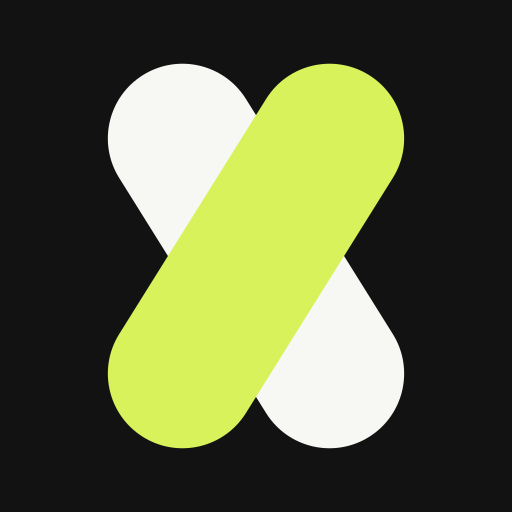
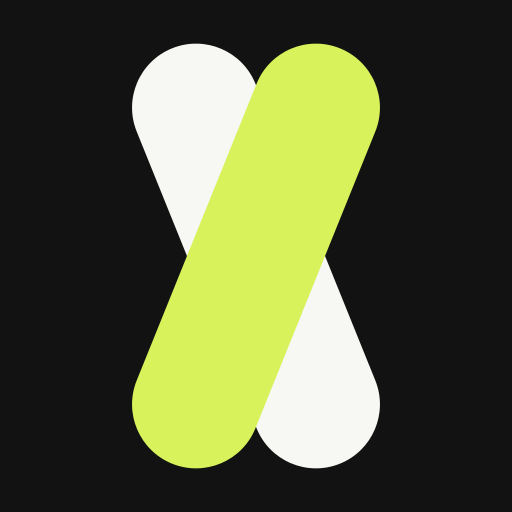
Dial the mark back toward the original proportions, size up the wordmark
Rick's read on the 32-degree version: too much X, lines too fat. Brought
the crossing angle to 22 degrees (was 18 broken / 32 overcorrected) and bars
back to 12px (was 13 broken / 14 overcorrected) - keeps the symmetry fix,
closer to the original spirit. Also sized up the homepage header lockup
(icon 28px to 40px, wordmark 15px to 20px, tagline 10.5px to 13px) per
request.

diff --git a/app/app/routes/home.tsx b/app/app/routes/home.tsx
@@ -134,36 +134,36 @@ export default function Home() {
       <link rel="stylesheet" href="/about/fonts/fonts.css" />
       {/* Header */}
       <header className="absolute top-0 left-0 right-0 z-50 px-6 py-6 flex items-center justify-between max-w-7xl mx-auto">
-        <h1 className="flex items-center gap-2.5">
-          <svg viewBox="0 0 48 48" fill="none" className="w-7 h-7 shrink-0">
+        <h1 className="flex items-center gap-3.5">
+          <svg viewBox="0 0 48 48" fill="none" className="w-10 h-10 shrink-0">
             <rect
-              x="17"
-              y="4"
-              width="14"
-              height="40"
-              rx="7"
+              x="18"
+              y="3"
+              width="12"
+              height="42"
+              rx="6"
               fill="var(--garden-paper)"
-              transform="rotate(-32 24 24)"
+              transform="rotate(-22 24 24)"
             />
             <rect
-              x="17"
-              y="4"
-              width="14"
-              height="40"
-              rx="7"
+              x="18"
+              y="3"
+              width="12"
+              height="42"
+              rx="6"
               fill="var(--garden-citron)"
-              transform="rotate(32 24 24)"
+              transform="rotate(22 24 24)"
             />
           </svg>
           <span className="flex flex-col leading-none">
             <span
-              className="text-[15px] font-medium uppercase tracking-[0.28em] text-[var(--garden-paper)]"
+              className="text-[20px] font-medium uppercase tracking-[0.24em] text-[var(--garden-paper)]"
               style={{ fontFamily: "var(--garden-font-mono)" }}
             >
               creatives.exchange
             </span>
             <span
-              className="hidden sm:block mt-1 text-[10.5px] font-medium uppercase tracking-[0.2em] text-[var(--garden-dim)]"
+              className="hidden sm:block mt-1.5 text-[13px] font-medium uppercase tracking-[0.18em] text-[var(--garden-dim)]"
               style={{ fontFamily: "var(--garden-font-mono)" }}
             >
               Give<span className="text-[var(--garden-citron)]">.</span> Receive

diff --git a/app/app/routes/_app.tsx b/app/app/routes/_app.tsx
@@ -117,22 +117,22 @@ export default function AppLayout() {
           <Link to="/" className="flex items-center gap-2.5">
             <svg viewBox="0 0 48 48" fill="none" className="w-7 h-7 shrink-0">
               <rect
-                x="17"
-                y="4"
-                width="14"
-                height="40"
-                rx="7"
+                x="18"
+                y="3"
+                width="12"
+                height="42"
+                rx="6"
                 className="fill-gray-900 dark:fill-white"
-                transform="rotate(-32 24 24)"
+                transform="rotate(-22 24 24)"
               />
               <rect
-                x="17"
-                y="4"
-                width="14"
-                height="40"
-                rx="7"
+                x="18"
+                y="3"
+                width="12"
+                height="42"
+                rx="6"
                 className="fill-[#d7f25a]"
-                transform="rotate(32 24 24)"
+                transform="rotate(22 24 24)"
               />
             </svg>
             <span className="text-lg font-bold text-gray-900 dark:text-white">
